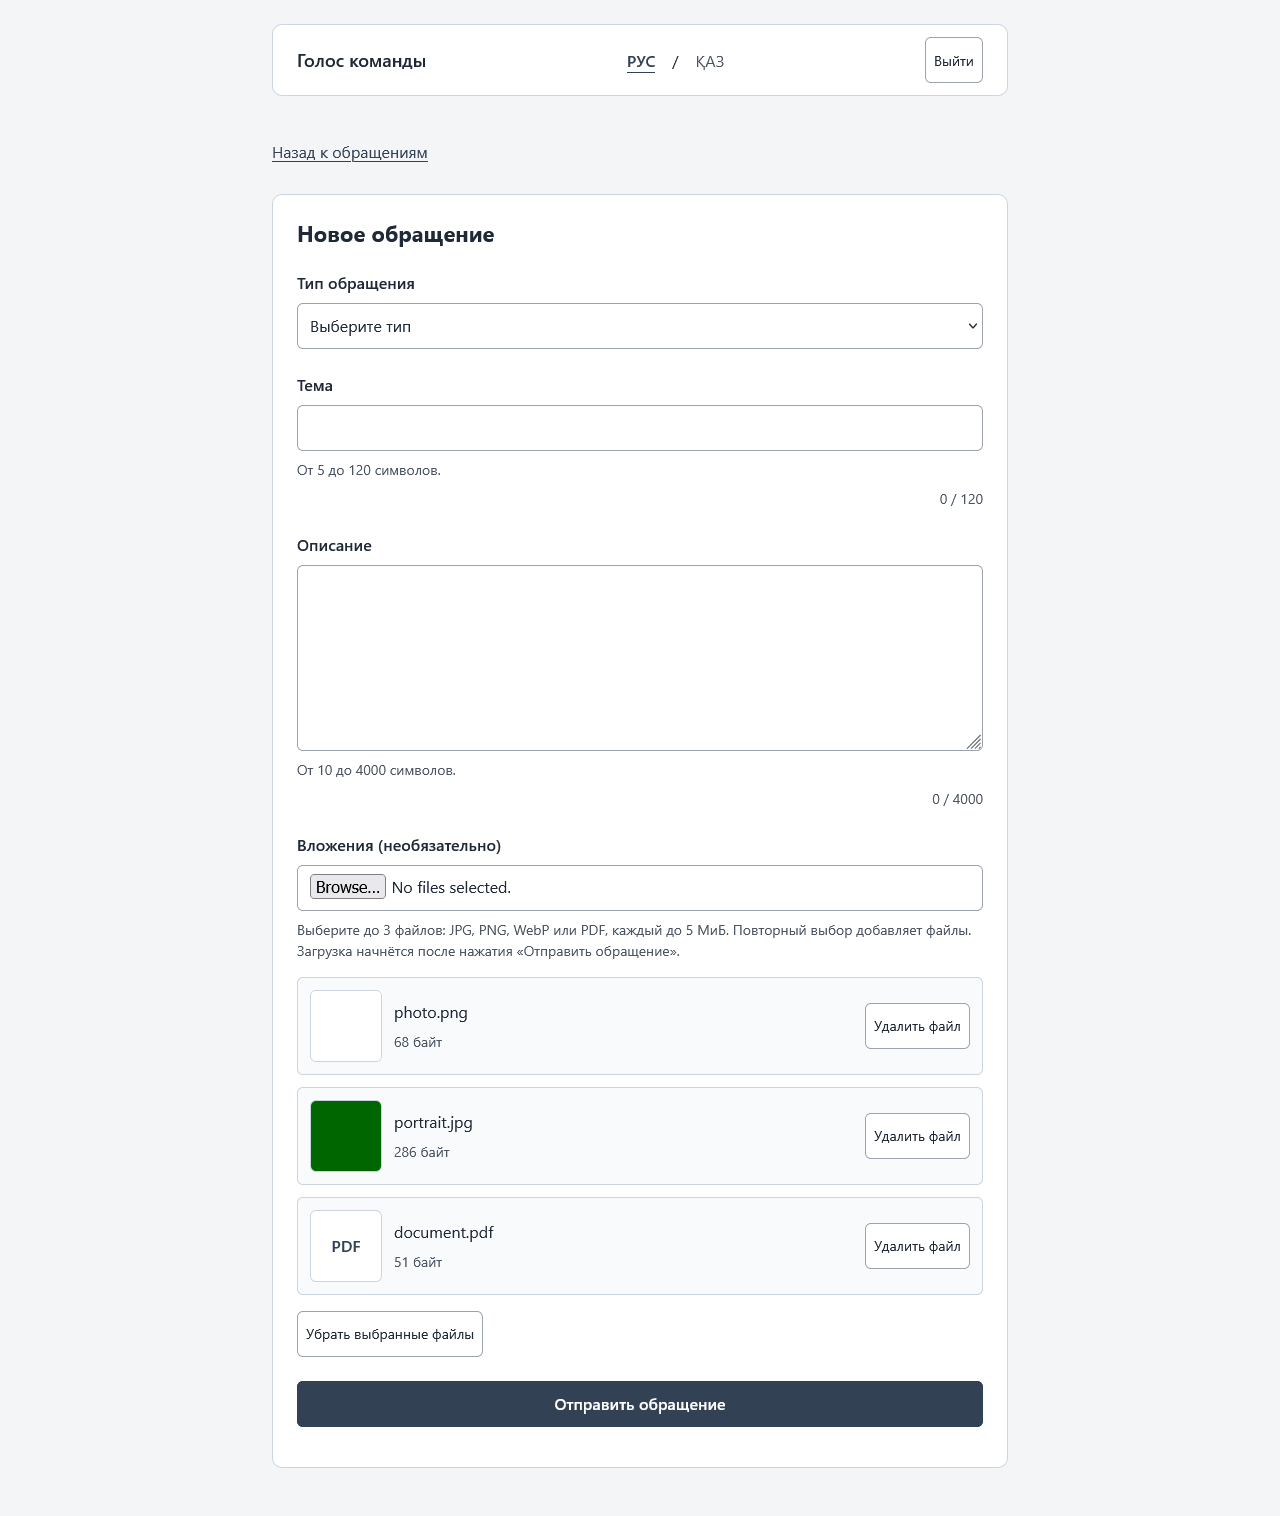
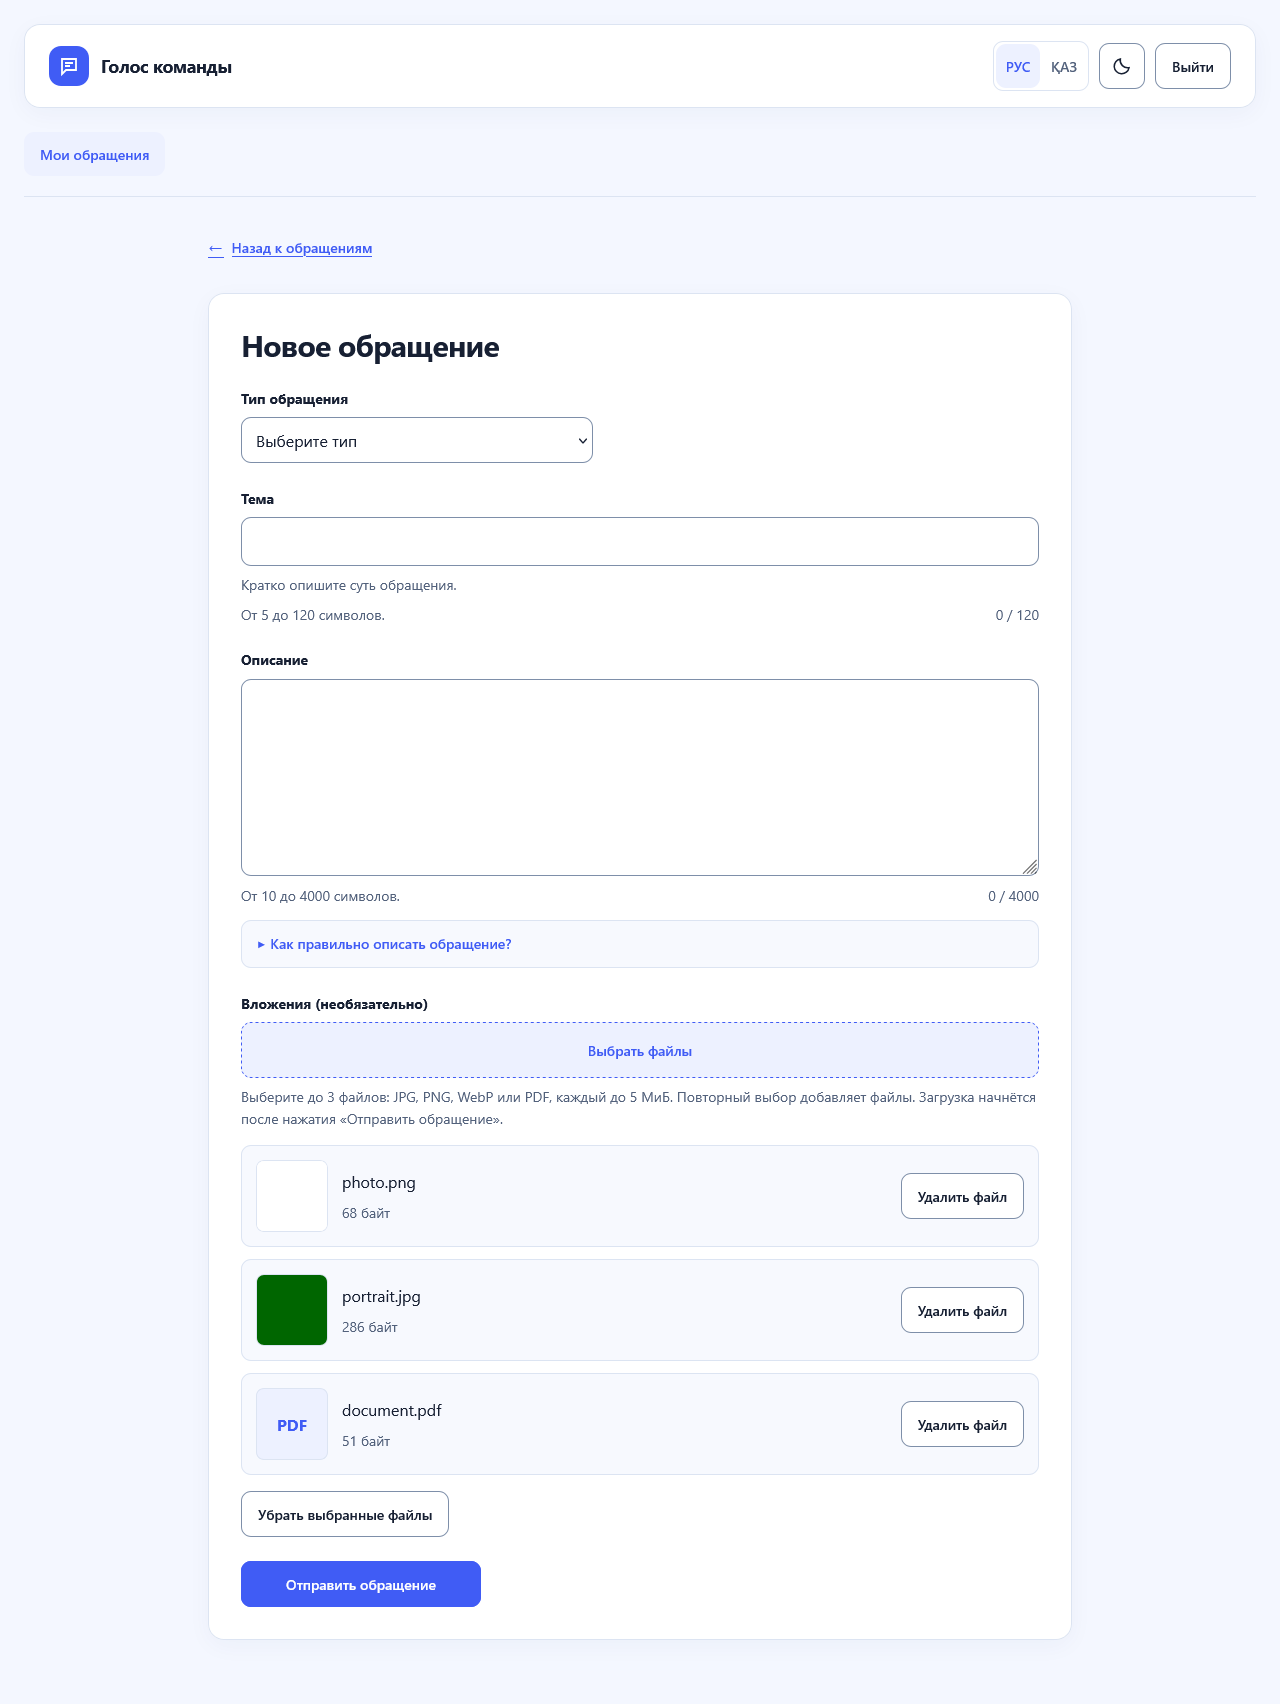
исправление бага с предпросмотром вложения

diff --git a/frontend/js/ticket.js b/frontend/js/ticket.js
@@ -1,6 +1,6 @@
-import { validateAttachment } from './attachment-validation.js?v=saas-redesign-20261111-1';
-import { getTicket, updateTicketStatus, uploadAttachment } from './api.js?v=saas-redesign-20261111-1';
-import { t } from './i18n.js?v=saas-redesign-20261111-1';
+import { validateAttachment } from './attachment-validation.js?v=saved-previews-20261112-1';
+import { getTicket, updateTicketStatus, uploadAttachment, getAttachmentPreview } from './api.js?v=saved-previews-20261112-1';
+import { t } from './i18n.js?v=saved-previews-20261112-1';
 
 const screen = document.querySelector('#ticket-detail-screen');
 const content = document.querySelector('#ticket-detail-content');
@@ -29,6 +29,57 @@ let uploadController = null;
 let uploadVersion = 0;
 let attachmentFeedback = '';
 const fileInput = document.querySelector('#attachment-file');
+const attachmentPreviews = new Map();
+
+function clearAttachmentPreviews() {
+  for (const entry of attachmentPreviews.values()) {
+    entry.controller.abort();
+    if (entry.url) URL.revokeObjectURL(entry.url);
+  }
+  attachmentPreviews.clear();
+}
+
+function loadAttachmentPreview(file, container) {
+  const id = requestId;
+  const currentTicket = ticket.id;
+  const entry = { controller: new AbortController(), url: null, state: 'loading', container };
+  attachmentPreviews.set(file.id, entry);
+  getAttachmentPreview(currentTicket, file.id, entry.controller.signal).then(blob => {
+    if (id !== requestId || attachmentPreviews.get(file.id) !== entry) return;
+    entry.url = URL.createObjectURL(blob); entry.state = 'ready';
+    renderSavedImage(file, entry);
+  }).catch(() => {
+    if (id !== requestId || attachmentPreviews.get(file.id) !== entry) return;
+    entry.state = 'error'; renderSavedImage(file, entry);
+  });
+  return entry;
+}
+
+function renderSavedImage(file, entry) {
+  const container = entry.container;
+  container.replaceChildren();
+  if (entry.url) {
+    const image = document.createElement('img');
+    const source = entry.url;
+    image.src = source; image.alt = file.original_name; image.className = 'attachment-image-preview';
+    image.addEventListener('error', () => {
+      if (attachmentPreviews.get(file.id) !== entry || entry.url !== source) return;
+      URL.revokeObjectURL(source); entry.url = null; entry.state = 'error'; renderSavedImage(file, entry);
+    });
+    container.append(image);
+  } else {
+    container.append(textElement('p', t(entry.state === 'loading' ? 'attachmentPreviewLoading' : 'attachmentPreviewUnavailable'), 'hint'));
+    if (entry.state === 'error') {
+      const retryPreview = textElement('button', t('retry'), 'secondary-button'); retryPreview.type = 'button';
+      retryPreview.setAttribute('aria-label', `${t('retry')}: ${file.original_name}`);
+      retryPreview.addEventListener('click', () => {
+        if (!ticket || attachmentPreviews.get(file.id) !== entry) return;
+        const next = loadAttachmentPreview(file, container); renderSavedImage(file, next);
+      });
+      container.append(retryPreview);
+    }
+  }
+}
 
 
 function renderAttachments() {
@@ -37,7 +88,7 @@ function renderAttachments() {
   const files = ticket?.attachments ?? [];
   for (const file of files) {
     const item = document.createElement('li');
-    item.className = 'ticket';
+    item.className = 'ticket saved-attachment';
     const link = textElement('a', t('attachmentDownload'), 'back-link');
     // Build a same-origin protected URL; never use an arbitrary metadata URL.
     if (Number.isSafeInteger(file.id) && file.id > 0) {
@@ -45,6 +96,14 @@ function renderAttachments() {
       link.download = file.original_name;
     }
     item.append(textElement('p', file.original_name), textElement('p', `${file.mime_type} · ${file.size_bytes} ${t('attachmentBytes')}`, 'hint'), link);
+    if (file.mime_type === 'application/pdf') {
+      item.dataset.kind = 'pdf';
+      const icon = textElement('span', 'PDF', 'attachment-pdf'); icon.setAttribute('aria-hidden', 'true'); item.append(icon);
+    } else if (['image/jpeg', 'image/png', 'image/webp'].includes(file.mime_type) && Number.isSafeInteger(file.id) && file.id > 0) {
+      const container = document.createElement('div');
+      const entry = attachmentPreviews.get(file.id) ?? loadAttachmentPreview(file, container);
+      entry.container = container; renderSavedImage(file, entry); item.append(container);
+    }
     list.append(item);
   }
   document.querySelector('#attachments-empty').hidden = files.length > 0;
@@ -136,6 +195,7 @@ export function renderTicketDetails() {
 
 async function loadTicket(message = '') {
   const id = ++requestId;
+  clearAttachmentPreviews();
   ticket = null;
   saving = false;
   feedback = message;
@@ -166,6 +226,7 @@ export function openTicketDetails(id, admin = false) {
 }
 
 export function closeTicketDetails() {
+  clearAttachmentPreviews();
   uploadVersion++;
   uploadController?.abort();
   uploadController = null;

diff --git a/frontend/js/app.js b/frontend/js/app.js
@@ -1,11 +1,11 @@
-import { openAccounts, closeAccounts, renderAccounts } from './accounts.js?v=saas-redesign-20261111-1';
-import { initTheme, renderThemeToggle } from './theme.js?v=saas-redesign-20261111-1';
-import { login, logout, getMe, normalizePhone, invalidateSessionRequests } from './api.js?v=saas-redesign-20261111-1';
-import { setLanguage, t } from './i18n.js?v=saas-redesign-20261111-1';
-import { openEmployee, closeEmployee, renderEmployee } from './employee.js?v=saas-redesign-20261111-1';
-import { openNewTicket, closeNewTicket, resetNewTicket, renderNewTicket } from './new-ticket.js?v=saas-redesign-20261111-1';
-import { openTicketDetails, closeTicketDetails, renderTicketDetails } from './ticket.js?v=saas-redesign-20261111-1';
-import { openAdminQueue, closeAdminQueue, renderAdminQueue } from './admin.js?v=saas-redesign-20261111-1';
+import { openAccounts, closeAccounts, renderAccounts } from './accounts.js?v=saved-previews-20261112-1';
+import { initTheme, renderThemeToggle } from './theme.js?v=saved-previews-20261112-1';
+import { login, logout, getMe, normalizePhone, invalidateSessionRequests } from './api.js?v=saved-previews-20261112-1';
+import { setLanguage, t } from './i18n.js?v=saved-previews-20261112-1';
+import { openEmployee, closeEmployee, renderEmployee } from './employee.js?v=saved-previews-20261112-1';
+import { openNewTicket, closeNewTicket, resetNewTicket, renderNewTicket } from './new-ticket.js?v=saved-previews-20261112-1';
+import { openTicketDetails, closeTicketDetails, renderTicketDetails } from './ticket.js?v=saved-previews-20261112-1';
+import { openAdminQueue, closeAdminQueue, renderAdminQueue } from './admin.js?v=saved-previews-20261112-1';
 
 const form = document.querySelector('#login-form');
 const phone = document.querySelector('#phone');

diff --git a/frontend/js/api.js b/frontend/js/api.js
@@ -4,10 +4,11 @@ export function invalidateSessionRequests() { sessionEpoch++; }
 
 export async function request(path, options = {}) {
   const epoch = sessionEpoch;
+  const { responseType, ...fetchOptions } = options;
   let response;
   try {
     response = await fetch(`/api/v1${path}`, {
-      ...options,
+      ...fetchOptions,
       credentials: 'same-origin',
       headers: { ...(options.body && !(options.body instanceof FormData) ? { 'Content-Type': 'application/json' } : {}), ...options.headers },
       cache: 'no-store',
@@ -17,6 +18,12 @@ export async function request(path, options = {}) {
     throw new Error('NETWORK_ERROR');
   }
   if (response.status === 204) return null;
+  if (response.ok && responseType === 'image') {
+    if (!['image/jpeg', 'image/png', 'image/webp'].includes(response.headers.get('Content-Type')?.split(';')[0].trim())) {
+      throw new Error('UNSUPPORTED_FILE_TYPE');
+    }
+    try { return await response.blob(); } catch { throw new Error('API_UNAVAILABLE'); }
+  }
   let result;
   try { result = await response.json(); } catch { throw new Error('API_UNAVAILABLE'); }
   if (!response.ok) {
@@ -54,6 +61,10 @@ export const updateUser = (id, is_active) => request(`/admin/users/${id}`, {
 
 export const resetUserPassword = (id, signal) => request(`/admin/users/${id}/reset-password`, {
   method: 'POST', body: JSON.stringify({}), signal,
+});
+
+export const getAttachmentPreview = (ticketId, attachmentId, signal) => request(`/tickets/${ticketId}/attachments/${attachmentId}`, {
+  signal, responseType: 'image',
 });
 
 export function normalizePhone(value) {

diff --git a/frontend/css/styles.css b/frontend/css/styles.css
@@ -204,6 +204,11 @@ input[type="file"]::file-selector-button { min-height: 2.5rem; margin-right: .75
 .attachment-pdf { display: grid; place-items: center; font-weight: 700; color: var(--color-primary); background: var(--color-accent-soft); }
 .attachment-preview-info { flex: 1 1 10rem; min-width: 0; overflow-wrap: anywhere; font-weight: 500; }
 .attachment-preview-info .hint { font-weight: 400; }
+.saved-attachment > p:first-child { font-weight: 600; }
+.attachment-image-preview { display: block; width: 100%; max-height: 18rem; object-fit: contain; margin-top: .875rem; border: 1px solid var(--color-border); border-radius: var(--radius); background: var(--color-inset); }
+.saved-attachment[data-kind="pdf"] { display: grid; grid-template-columns: 4.5rem minmax(0,1fr); gap: .25rem 1rem; align-items: start; }
+.saved-attachment[data-kind="pdf"] > p, .saved-attachment[data-kind="pdf"] > a { grid-column: 2; }
+.saved-attachment[data-kind="pdf"] > .attachment-pdf { grid-column: 1; grid-row: 1 / span 3; }
 .ticket-detail-content { display: grid; grid-template-columns: minmax(0, 1fr) 21rem; gap: var(--block-gap); align-items: start; }
 .detail-main-column, .detail-side-column { display: grid; min-width: 0; gap: var(--block-gap); }
 .detail-main-column { grid-column: 1; grid-row: 1; }

diff --git a/frontend/js/i18n.js b/frontend/js/i18n.js
@@ -1,5 +1,6 @@
 const messages = {
   ru: {
+    attachmentPreviewLoading: 'Загрузка предпросмотра…',
     employeeListTitle: 'Список сотрудников',
     chooseFiles: 'Выбрать файлы',
     skipContent: 'Перейти к содержимому', workspaceNavigation: 'Навигация по рабочему пространству',
@@ -180,6 +181,7 @@ const messages = {
     loginUnavailable: 'Поля заполнены корректно. Подключение к серверу ещё не готово — вход не выполнен.',
   },
   kk: {
+    attachmentPreviewLoading: 'Алдын ала қарау жүктелуде…',
     employeeListTitle: 'Қызметкерлер тізімі',
     chooseFiles: 'Файлдарды таңдау',
     skipContent: 'Мазмұнға өту', workspaceNavigation: 'Жұмыс кеңістігінің навигациясы',

diff --git a/frontend/index.html b/frontend/index.html
@@ -6,9 +6,9 @@
   <meta name="color-scheme" content="light dark">
   <title>Голос команды</title>
   <link rel="icon" href="data:,">
-  <script src="js/theme-init.js?v=saas-redesign-20261111-1"></script>
-  <link rel="stylesheet" href="css/styles.css?v=saas-redesign-20261111-1">
-  <script type="module" src="js/app.js?v=saas-redesign-20261111-1"></script>
+  <script src="js/theme-init.js?v=saved-previews-20261112-1"></script>
+  <link rel="stylesheet" href="css/styles.css?v=saved-previews-20261112-1">
+  <script type="module" src="js/app.js?v=saved-previews-20261112-1"></script>
 </head>
 <body>
   <a id="skip-to-content" class="skip-link" href="#app" data-i18n="skipContent"></a>

diff --git a/frontend/js/new-ticket.js b/frontend/js/new-ticket.js
@@ -1,6 +1,6 @@
-import { createTicket, uploadAttachment, getTicket } from './api.js?v=saas-redesign-20261111-1';
-import { validateAttachment } from './attachment-validation.js?v=saas-redesign-20261111-1';
-import { t } from './i18n.js?v=saas-redesign-20261111-1';
+import { createTicket, uploadAttachment, getTicket } from './api.js?v=saved-previews-20261112-1';
+import { validateAttachment } from './attachment-validation.js?v=saved-previews-20261112-1';
+import { t } from './i18n.js?v=saved-previews-20261112-1';
 
 const form = document.querySelector('#new-ticket-form');
 const fields = document.querySelector('#ticket-fields');

diff --git a/frontend/js/accounts.js b/frontend/js/accounts.js
@@ -1,5 +1,5 @@
-import { changePassword, getUsers, createUser, updateUser, resetUserPassword, normalizePhone } from './api.js?v=saas-redesign-20261111-1';
-import { t } from './i18n.js?v=saas-redesign-20261111-1';
+import { changePassword, getUsers, createUser, updateUser, resetUserPassword, normalizePhone } from './api.js?v=saved-previews-20261112-1';
+import { t } from './i18n.js?v=saved-previews-20261112-1';
 
 const $ = id => document.querySelector(`#${id}`);
 let version = 0;

diff --git a/frontend/js/admin.js b/frontend/js/admin.js
@@ -1,5 +1,5 @@
-import { getAdminTickets, getAdminStats } from './api.js?v=saas-redesign-20261111-1';
-import { t } from './i18n.js?v=saas-redesign-20261111-1';
+import { getAdminTickets, getAdminStats } from './api.js?v=saved-previews-20261112-1';
+import { t } from './i18n.js?v=saved-previews-20261112-1';
 
 const screen = document.querySelector('#admin-screen');
 const filter = document.querySelector('#admin-status-filter');

diff --git a/frontend/js/employee.js b/frontend/js/employee.js
@@ -1,5 +1,5 @@
-import { getMyTickets } from './api.js?v=saas-redesign-20261111-1';
-import { t } from './i18n.js?v=saas-redesign-20261111-1';
+import { getMyTickets } from './api.js?v=saved-previews-20261112-1';
+import { t } from './i18n.js?v=saved-previews-20261112-1';
 
 const screen = document.querySelector('#employee-screen');
 const list = document.querySelector('#ticket-list');

diff --git a/frontend/js/theme.js b/frontend/js/theme.js
@@ -1,4 +1,4 @@
-import { t } from './i18n.js?v=saas-redesign-20261111-1';
+import { t } from './i18n.js?v=saved-previews-20261112-1';
 
 const systemTheme = matchMedia('(prefers-color-scheme: dark)');
 let preference = null;
